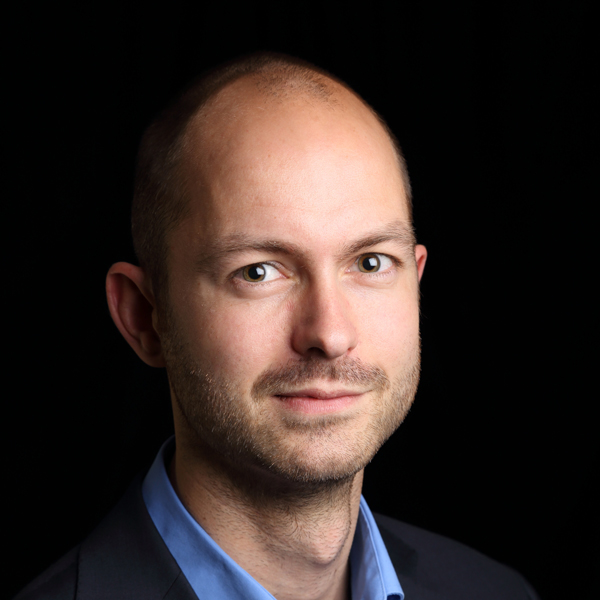
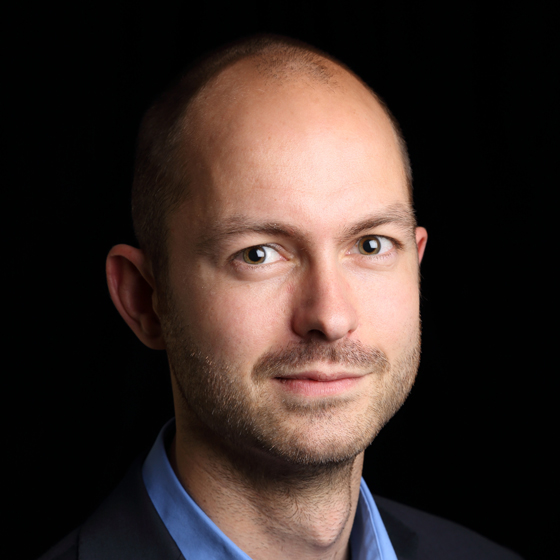
Replaced photo of Kahn

diff --git a/resources/views/society/leadership/early-career-members-committee.blade.php b/resources/views/society/leadership/early-career-members-committee.blade.php
@@ -13,7 +13,7 @@
 
 			<div class="row leadership-people" style="padding-top: 40px;">
 	        	<div class="col-md-4 xs-mb-15">
-					<img src="images/people/leadership/Nicolas_Kahn2.png" class="img-circle">
+					<img src="images/people/leadership/Nicolas-Kahn.jpg" class="img-circle">
 		            <p class="photo_caption"><strong>{!! Html::mailto('nicolas.kahn@web.de', 'NICOLAS KAHN') !!}</strong>
 		            Assembly 1<br>
 		            </p>

diff --git a/resources/views/society/leadership/science-council.blade.php b/resources/views/society/leadership/science-council.blade.php
@@ -44,7 +44,7 @@
 		            Guidelines director<br>
 		        </div>
 		        <div class="col-md-4 xs-mb-15">
-					<img src="images/people/leadership/nicolas_kahn.png" class="img-circle">
+					<img src="images/people/leadership/Nicolas-Kahn.jpg" class="img-circle">
 		            <p class="photo_caption"><strong>NICOLAS KAHN</strong>
 		            Early-career member Representative<br>
 		        </div>
